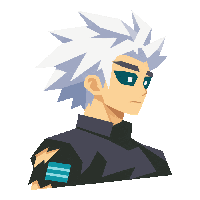
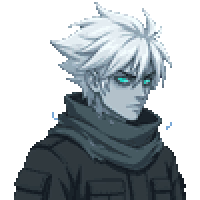
G04 부분 적용: 새 주인공 대화 초상화
- Gemini G04 주인공 초상화(1024)를 NPC 창 규격으로: 100px로 줄여 원본 색 32색, 2배, 마젠타 가장자리 제거
- 기본·결의 두 칸에 같은 그림(결의 표정은 Gemini 할당량이 풀리면 따로). 옛 초상화는 assets/concept/portraits_v5/
- G04 나머지(NPC 3)와 G02·G03은 Gemini 이미지 할당량 소진으로 21:02 KST 이후 재개

diff --git a/docs/gemini/reports/G04.md b/docs/gemini/reports/G04.md
@@ -1,0 +1,23 @@
+# G04 보고서 (부분 완료 — 할당량 소진으로 중단): 대화 초상화 (주인공 + 은신처 NPC 3)
+
+- **작업일**: 2026-11-23
+- **담당 도구**: Gemini (Antigravity 내장 `image-generator` 서브에이전트)
+- **사용 모델**: `gemini-3.1-flash-image` (429 오류 메시지에서 확인)
+- **결과 폴더**: `assets/sprites/gemini/portraits_v1/`
+- **상태**: 부분 완료 (1/4장 생성 후 이미지 생성 할당량 소진으로 중단)
+
+## 1. 만든 파일 목록
+| 인물 | 파일 경로 | 해상도 | 상태 |
+|---|---|---|---|
+| 주인공 | `assets/sprites/gemini/portraits_v1/hero_portrait.png` | 1024×1024 | 완료 (흰 머리 + 청록 눈 + 어두운 작업 재킷·머플러, 마젠타 배경) |
+| 정비사 | `assets/sprites/gemini/portraits_v1/mechanic_portrait.png` | - | 미생성 (`429 QUOTA_EXHAUSTED`) |
+| 보관인 | `assets/sprites/gemini/portraits_v1/keeper_portrait.png` | - | 미생성 (`429 QUOTA_EXHAUSTED`) |
+| 기록관 | `assets/sprites/gemini/portraits_v1/archivist_portrait.png` | - | 미생성 (`429 QUOTA_EXHAUSTED`) |
+
+## 2. 프롬프트 요약 및 시도 횟수
+- **주인공 (`hero_portrait.png`, 1회 성공)**: `hero_A_side.png`를 참조하되 G01 확정 사항에 따라 **흰 머리(순백/은백 삐죽머리)**로 변경. 청록 눈(`#00F0E0`), 피곤하지만 날카로운 표정, 어두운 차콜 작업 재킷과 청록 헤이즈 연기가 감도는 어두운 머플러, 가슴 위 3/4 구도(오른쪽 안쪽 시선), 애니풍 선화 + 3단계 셀 음영, 마젠타 단색 배경(`#FF00FF`).
+- **정비사·보관인·기록관 (각 1회 시도 → 429 즉시 중단)**: `npc_mechanic_idle_1.png`, `npc_keeper_idle_1.png`, `npc_archivist_idle_1.png`와 `hero_portrait.png` 화풍을 맞추는 프롬프트로 요청했으나 모두 `gemini-3.1-flash-image` 할당량 소진 오류 반환.
+
+## 3. 해결 못한 문제
+- **이미지 생성 모델 할당량 소진 (`429 RESOURCE_EXHAUSTED` / `QUOTA_EXHAUSTED`)**: `gemini-3.1-flash-image` 할당량이 소진되어 `2026-11-23 21:02:25 KST` (`2026-11-23T12:02:25Z`) 이후에 초기화됩니다. 초기화 후 나머지 NPC 3장(및 G02·G03)을 이어서 생성해야 합니다.
+- **마젠타 배경 미세 편차**: `hero_portrait.png`는 생성 도구가 JPG로 출력한 이미지를 PNG로 변환했으며, 모서리 배경색은 `(253, 6, 247)`으로 정확한 `#FF00FF`와 소폭 차이가 있어 배경 제거 시 색상 허용치(tolerance)가 필요합니다.

diff --git a/docs/image_prompts.md b/docs/image_prompts.md
@@ -302,3 +302,5 @@ One tall mature sinister male prison warden final boss. FIRST reference is exact
 2026-11-22 [Codex] T47 탑과 보스방 원경을 참조해 중앙 상단을 비우고 하단 1/4을 어둡게 둔 기계 공동을 요청했다. T34 아크 카드, T45 본체 및 T46 손을 참조해 오른쪽 1/3에 열린 본체와 양손을, 왼쪽 2/3에는 글자 자리를 둔 카드를 요청했다. Codex 내장 image_gen(모델명 미제공). 프롬프트 전문은 assets/sprites/forge/heart_arena_v1/provenance.json.
 
 2026-11-23 [Gemini] G01 새 주인공 디자인 시안 3안(A: 짧은 작업 재킷+청록 연기 머플러, B: 찢어진 롱코트+헤이즈 흡입 마스크·관, C: 각진 후드+등 헤이즈 탱크·팔 호스). 어두운 무채색 몸체·청록(#00F0E0) 단일 포인트·3단계 평면 음영·마젠타 배경 옆모습(`hero_<A|B|C>_side.png`)과 정면·달리기 실루엣·8색 색표 시트(`hero_<A|B|C>_sheet.png`) 요청. Antigravity 내장 image-generator(모델명 미제공). 상세는 docs/gemini/reports/G01.md.
+
+2026-11-23 [Gemini] G04 주인공 대화 초상화(`hero_portrait.png`, 1024×1024). `hero_A_side.png` 기준에 G01 결정 흰 머리·청록 눈(#00F0E0)·어두운 작업 재킷·청록 연기 머플러, 가슴 위 3/4 구도, 애니풍 선화·3단계 셀 음영, 마젠타 배경 요청. Antigravity 내장 image-generator(`gemini-3.1-flash-image`). 나머지 NPC 3장 및 G02·G03은 429 할당량 소진으로 중단. 상세는 docs/gemini/reports/G04.md.

diff --git a/docs/PROGRESS.md b/docs/PROGRESS.md
@@ -271,3 +271,4 @@
 
 2026-11-23 [Gemini] G04 주인공 대화 초상화 1장(`hero_portrait.png`) 제작 후 `gemini-3.1-flash-image` 429 할당량 소진(21:02 KST 초기화)으로 G02·G03·G04 나머지 중단, 상태 ready 복원 / assets/sprites/gemini/portraits_v1/hero_portrait.png, docs/gemini/reports/G04.md, docs/gemini/TASKS.md, docs/image_prompts.md, docs/ASSETS.md, docs/PROGRESS.md
 2026-11-23 [Claude Code] 새 주인공 v2 적용: 고른 그림(base96)을 첫 프레임으로 다시 만든 13세트(색 기준 base96 24색, 눈 복원), 실제 창 확인 / tools/apply_pixellab_hero.py, assets/sprites/unified/hero6*, assets/sprites/pixellab/hero_v6_test/
+2026-11-23 [Claude Code] G04 부분 검토·적용: 주인공 대화 초상화를 새 디자인으로(100px로 줄여 32색, 2배, 마젠타 가장자리 제거, 기본·결의 같은 그림). 나머지 NPC 3장·G02·G03은 Gemini 이미지 할당량 소진(21:02 KST 이후 재개) / assets/portraits/n09_1~2.png, assets/concept/portraits_v5/
